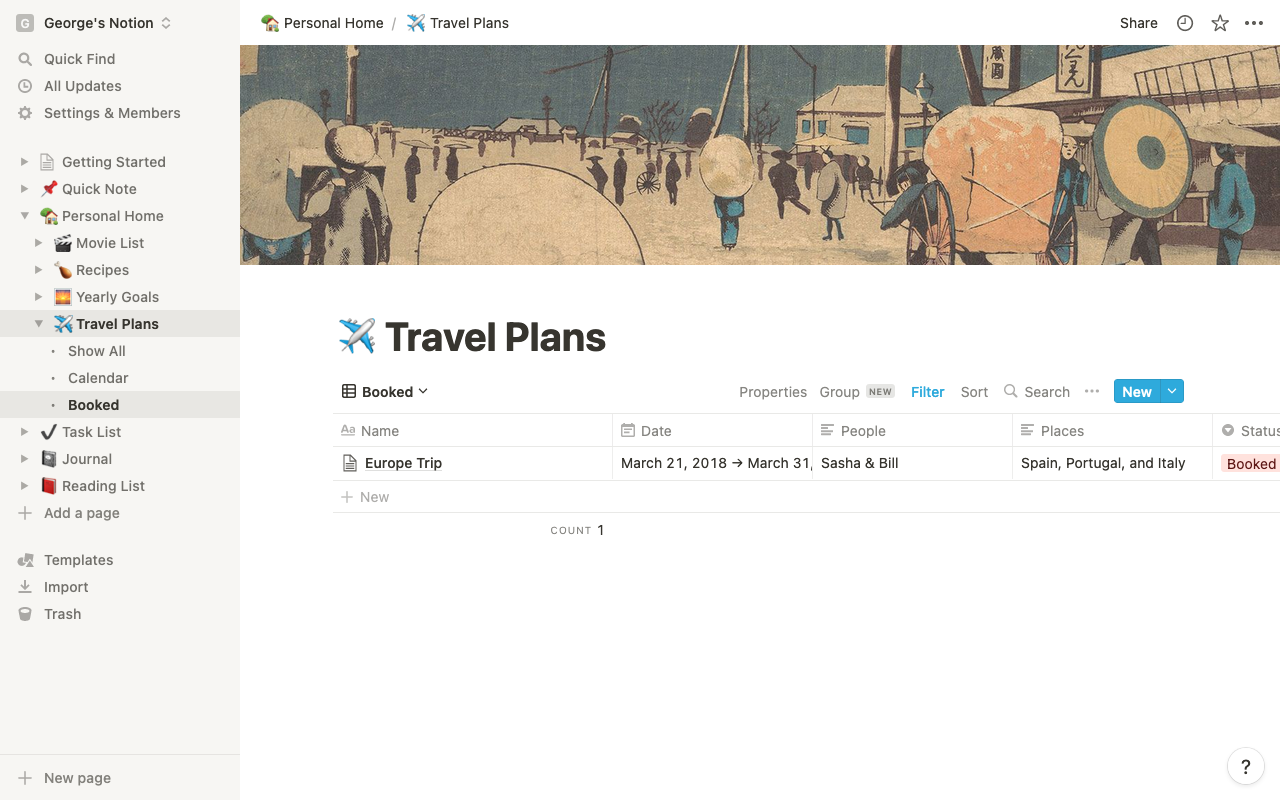
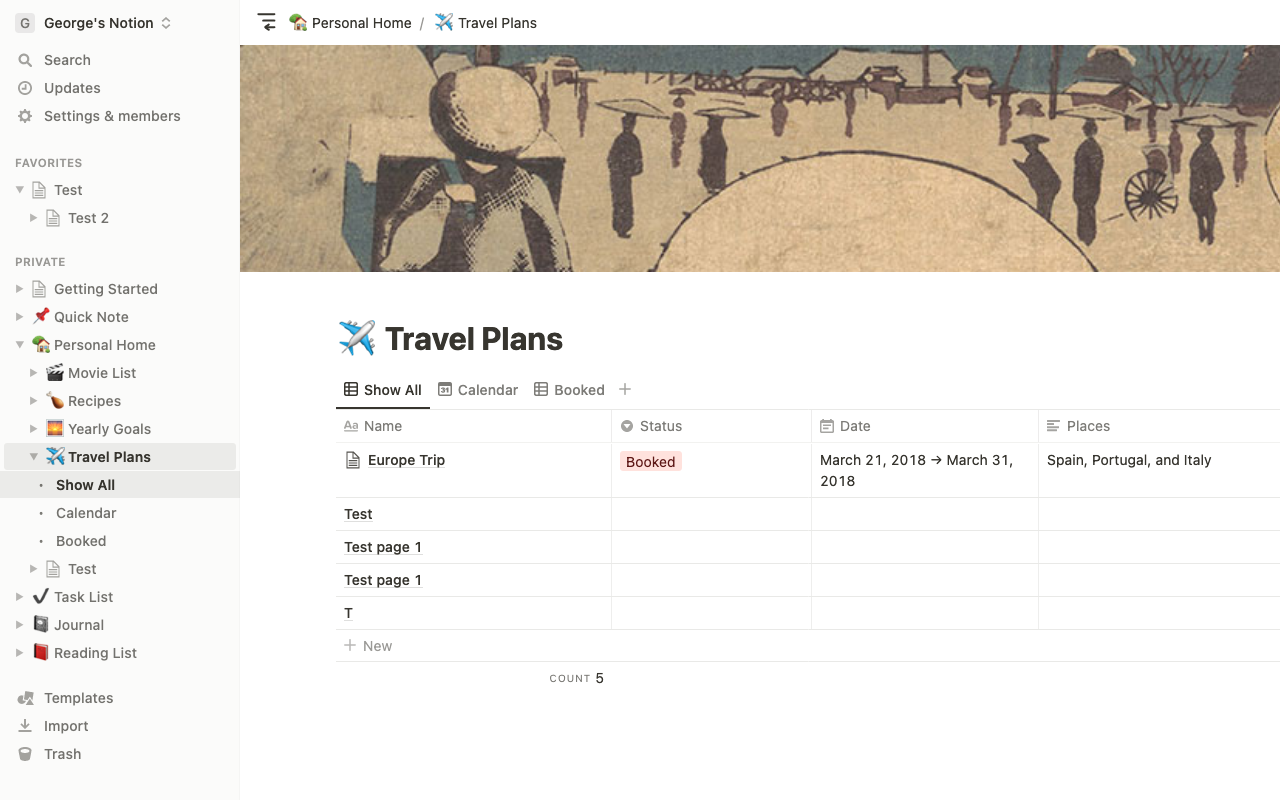
feat: Add manual sidebar trigger

diff --git a/src/Notion Sidebar Expander.js b/src/Notion Sidebar Expander.js
@@ -3,7 +3,7 @@
 // @namespace   urn://https://www.georgegillams.co.uk/api/greasemonkey/notion_sidebar_expander
 // @include     *notion.so*
 // @exclude     none
-// @version     1.0.5
+// @version     1.1.1
 // @description:en	Reveals the current page in the sidebar
 // @grant    		none
 // @description Reveals the current page in the sidebar
@@ -30,8 +30,8 @@ const waitFor = async (getterFunction, options = {}, numberOfTries = 0) => {
   return await waitFor(getterFunction, options, numberOfTries + 1);
 };
 
-const getTopNavItems = async () => {
-  const topBarItems = await waitFor(() => {
+async function getTopBarNavList() {
+  const topBar = await waitFor(() => {
     const topBar = document.getElementsByClassName('notion-topbar')[0];
     if (!topBar) {
       return { conditionMet: false };
@@ -44,6 +44,14 @@ const getTopNavItems = async () => {
     if (!topBarNavList) {
       return { conditionMet: false };
     }
+    return { conditionMet: true, output: topBarNavList };
+  });
+  return topBar;
+}
+
+const getTopNavItems = async () => {
+  const topBarNavList = await getTopBarNavList();
+  const topBarItems = await waitFor(() => {
     const items = [...topBarNavList.getElementsByClassName('notion-focusable')];
     if (!items.length) {
       return { conditionMet: false };
@@ -102,16 +110,37 @@ const getSidebarElements = async (sideBarElement, identifier) =>
       const sideBarElements = [
         ...sideBarElement.getElementsByClassName('notion-focusable'),
       ];
-      const matches = sideBarElements.filter(
-        (element) => element.innerText === identifier,
-      );
-      const matchesInMainTree = matches.filter(isInMainTree);
-      return matchesInMainTree.length
+      const matches = sideBarElements.filter((element) => {
+        return element.innerText === identifier;
+      });
+      // const matchesInMainTree = matches.filter(isInMainTree);
+      return matches.length
         ? { conditionMet: true, output: matches }
         : { conditionMet: false };
     },
     { wait: 200, maxRetries: 20 },
   );
+
+const expandSidebarItem = (sidebarItem) => {
+  const hasToggleButton = sidebarItem.getElementsByTagName('svg').length > 0;
+
+  if (
+    !hasToggleButton &&
+    sidebarItem.parentElement.parentElement.parentElement.parentElement.getBoundingClientRect()
+      .height < 30
+  ) {
+    sidebarItem.click();
+    return;
+  }
+
+  const toggleButton = sidebarItem.children[0].children[0].children[0];
+  const svg = toggleButton.children[0];
+  console.log(`svg.style.transform`, svg.style.transform);
+  if (svg.style.transform === 'rotateZ(-90deg)') {
+    toggleButton.click();
+  }
+};
+
 async function checkAndExpand() {
   const topNavItems = await getTopNavItems();
   let topNavHiddenItems = [];
@@ -150,12 +179,7 @@ async function checkAndExpand() {
     );
     if (matchingSidebarElements) {
       matchingSidebarElements.forEach((matchingSidebarElement) => {
-        const toggleButton =
-          matchingSidebarElement.children[0].children[0].children[0];
-        const svg = toggleButton.children[0];
-        if (svg.style.transform === 'rotateZ(90deg)') {
-          toggleButton.click();
-        }
+        expandSidebarItem(matchingSidebarElement);
       });
       lastMatch = matchingSidebarElements[matchingSidebarElements.length - 1];
     }
@@ -172,4 +196,28 @@ async function checkAndExpand() {
   });
 }
 
+async function addButtonToUI() {
+  if (document.getElementById('sba-expand-tree-button')) {
+    return;
+  }
+
+  const topBarNavList = await getTopBarNavList();
+  const expandTreeButton = document.createElement('button');
+  expandTreeButton.innerHTML = `
+<svg width="20" height="20" viewBox="0 0 20 20" fill="none" xmlns="http://www.w3.org/2000/svg">
+  <path d="M18.4 16.16H10.4" stroke="#37352f" stroke-width="2" stroke-linecap="round"/>
+  <path d="M18.4 9.60001L7.20001 9.60001" stroke="#37352f" stroke-width="2" stroke-linecap="round"/>
+  <path d="M18.4 3.2L2.39999 3.2" stroke="#37352f" stroke-width="2" stroke-linecap="round"/>
+  <path d="M12.7484 13.6L9.50145 15.7646C9.20458 15.9625 9.20458 16.3988 9.50145 16.5967L12.7484 18.7613" stroke="#37352f" stroke-width="2" stroke-linecap="round"/>
+</svg>
+  `;
+  expandTreeButton.ariaLabel = `Expand sidebar tree to current page`;
+  expandTreeButton.id = 'sba-expand-tree-button';
+  expandTreeButton.style.background = 'none';
+  expandTreeButton.style.border = 'none';
+  expandTreeButton.onclick = checkAndExpand;
+  topBarNavList.insertBefore(expandTreeButton, topBarNavList.children[0]);
+}
+
+addButtonToUI();
 checkAndExpand();
